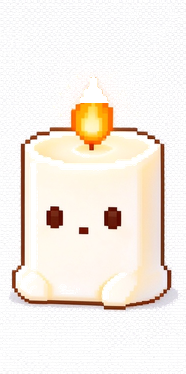
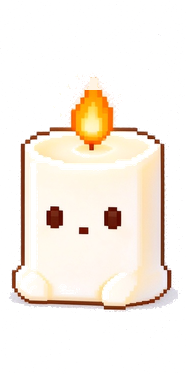
fix(pet): 蜡烛位图去底、火苗摇曳降频与睡眠帧加重
- 泛洪填充去底：只清除与边缘连通的白底，JPEG 噪点散点不再
  出现在壁纸上，身体内部白色高光保留
- 火苗摇曳 260ms 放缓到 550ms，偏摆帧裁剪幅度 35%→18%，
  裁掉区域补淡暖余晖，深色壁纸上不再闪黑尖
- 睡眠帧闭眼线从 1px 加粗到 5px（此前显示尺寸下不可见），
  火苗缩小幅度与暗化加强

Changed region(s): [[0.4301, 0.2059, 0.5914, 0.2941]]

diff --git a/crates/app/src/pet_window.rs b/crates/app/src/pet_window.rs
@@ -694,7 +694,7 @@ mod macos {
         let frame_idx = match behavior.state() {
             PetBehaviorState::Sleeping => 2u8,
             _ if reduced => 0,
-            _ => ((behavior.elapsed().as_millis() / 260) % 2) as u8,
+            _ => ((behavior.elapsed().as_millis() / 550) % 2) as u8,
         };
         if view.ivars().sprite_frame.get() != frame_idx {
             let layer_guard = view.ivars().sprite_layer.borrow();

diff --git a/docs/design/drafts/小蜡烛·角色设计方向.md b/docs/design/drafts/小蜡烛·角色设计方向.md
@@ -50,7 +50,7 @@ reduced-motion 静态替代：摇曳/晃动/渐变全部停用，用火苗大小
 
 - **占位层已切换为基准稿位图**（2026-10-20）：桌面窗口和领养预览外，宠物窗口直接渲染 candle-4 位图（等比缩放进 body 区域），描边、火苗、点眼均来自位图；命中区域按可见蜡身宽度收窄。
 - 已知过渡态：① 位图眼睛是静态的，Watching 的眼神跟随暂被禁用，待位图按身体/火苗/眼睛分层后恢复；② 领养小窗预览仍是色块占位，与蜡烛形态的统一在生成器切换时一并处理。
-- 像素动画（2026-10-20）：三帧位图换帧制——清醒帧 / 火苗偏摆帧（每 260ms 交替即摇曳）/ 睡眠帧（火苗缩小变暗 + 合成闭眼线）；reduced-motion 下停用摇曳只用清醒帧，状态切换仍即时。睡眠帧另保留整体 opacity 0.72 加强入睡感。
+- 像素动画（2026-10-20）：三帧位图换帧制——清醒帧 / 火苗偏摆帧（每 550ms 交替，偏摆帧裁掉的火焰顶部补淡暖余晖，不透出壁纸）/ 睡眠帧（火苗缩小变暗 + 5px 合成闭眼线）；reduced-motion 下停用摇曳只用清醒帧，状态切换仍即时。睡眠帧另保留整体 opacity 0.72 加强入睡感。
 - 通知气泡继续用头顶占位气泡；样式待视觉稿统一。
 
 ## 6. 与世界观衔接
